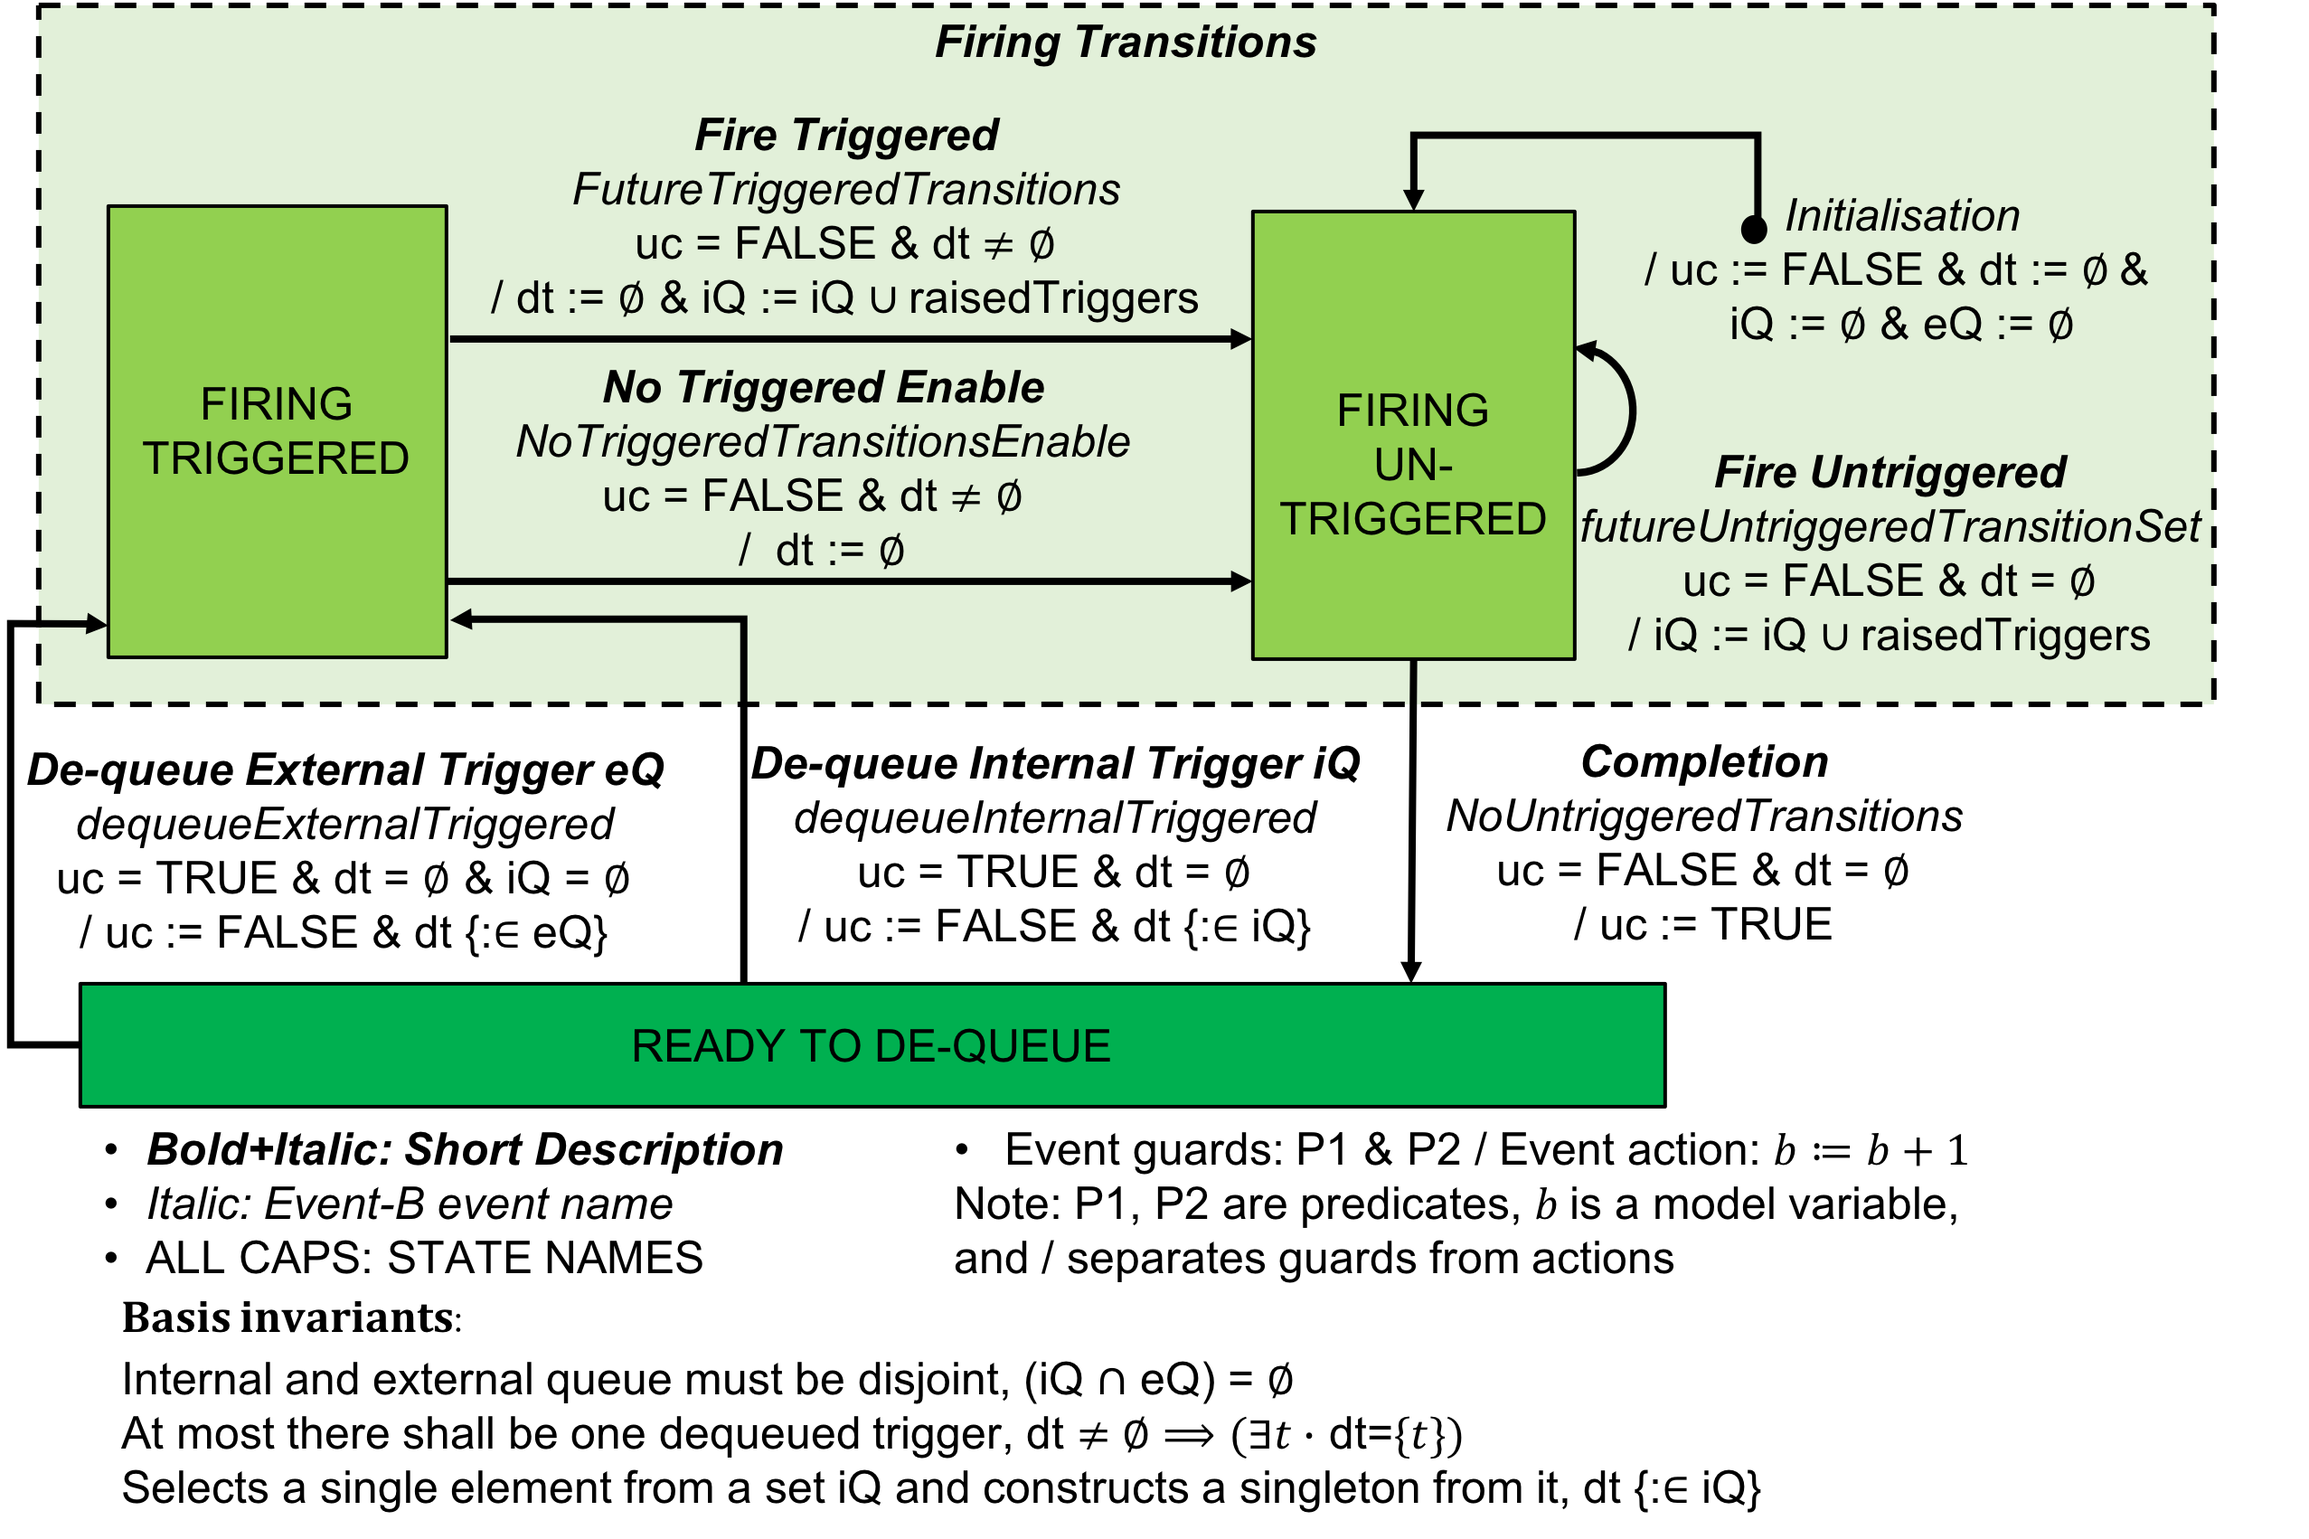
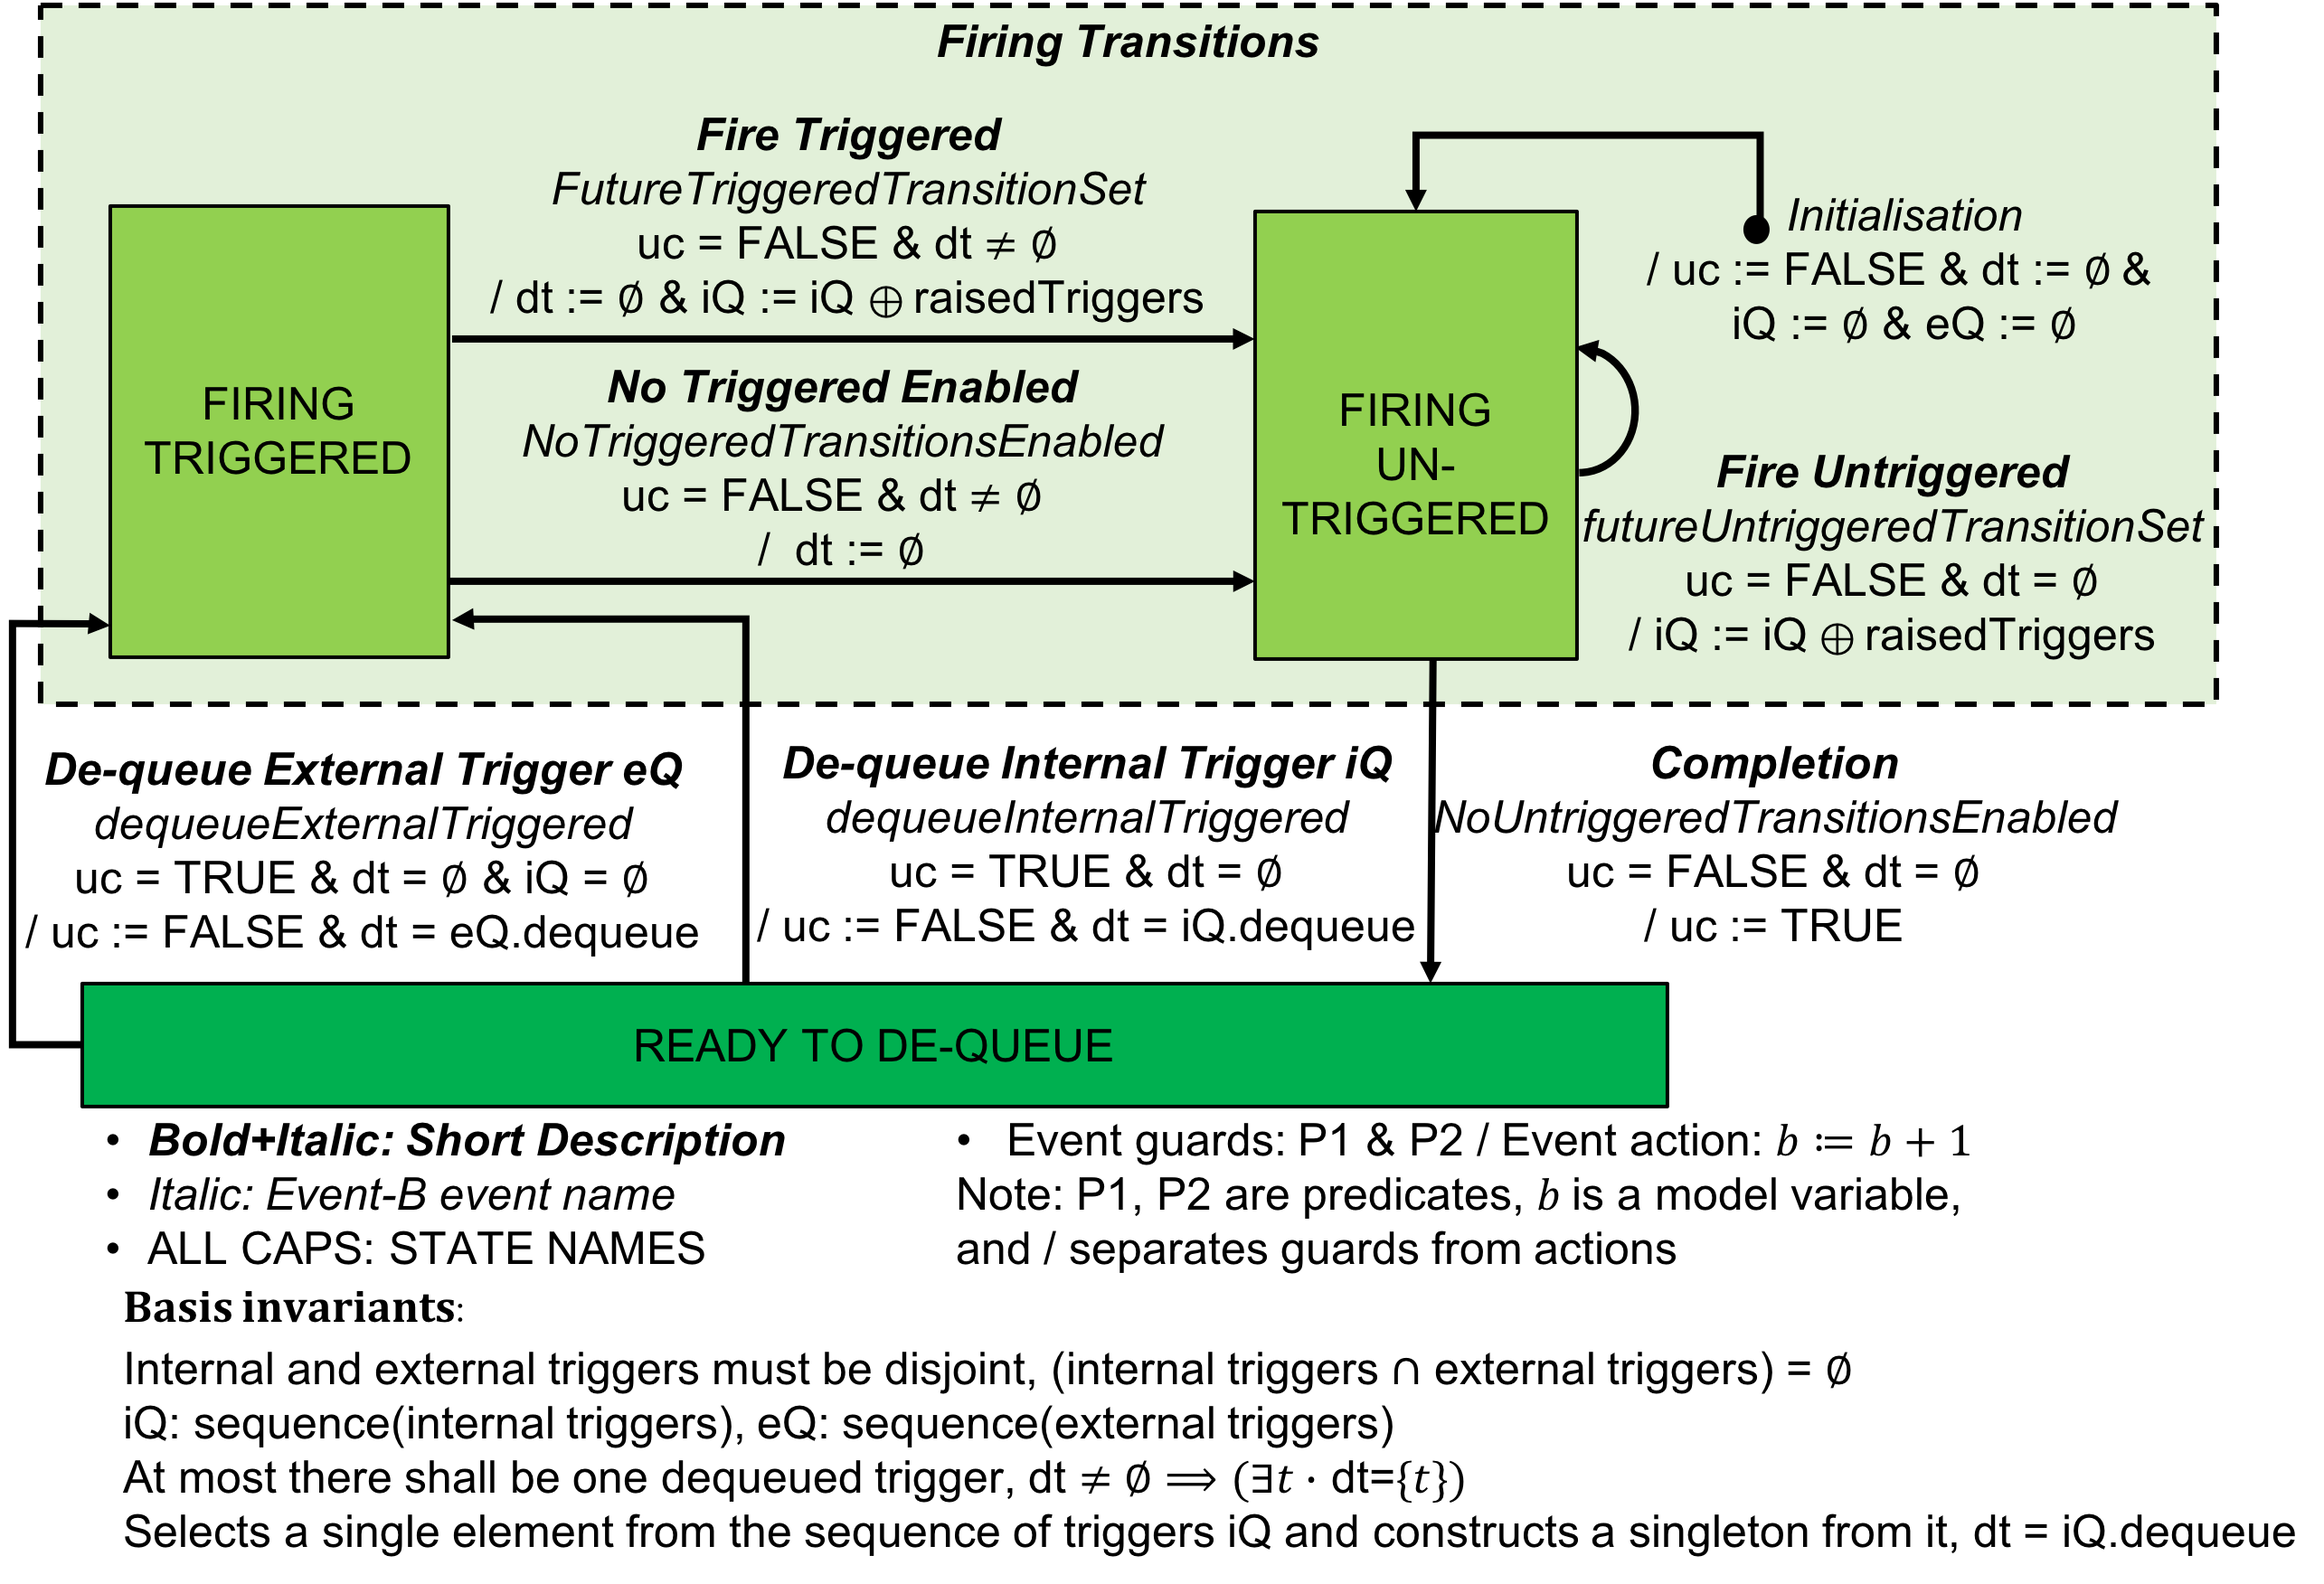
Updates to R@C basis diagram and the text to match events names

diff --git a/manuscripts/ISSE/source/sections/runToCompletionBasis.tex b/manuscripts/ISSE/source/sections/runToCompletionBasis.tex
@@ -95,7 +95,7 @@ This will subsequently enable completion and reset the |uc| flag to |TRUE|.
 The abstract event |futureRaiseExternalTrigger| represents the raising  of an external trigger (not shown in the diagram).    
 After completion, a queued trigger can be prepared for consumption by moving it to the dequeued trigger, |dt|.
 Internal triggers have a higher priority, since the external trigger queue is only dequeued if the |iQ| is empty (see |dequeueExternalTriggered| and |dequeueInternalTriggered| in Figure~\ref{fig:basis}).
-The abstract event |futureTriggeredTransitions| represents a combination of parallel transitions that are simultaneously triggered by the dequeued trigger, |dt|.
+The abstract event |futureTriggeredTransitionSet| represents a combination of parallel transitions that are simultaneously triggered by the dequeued trigger, |dt|.
 The actions of these transitions may also raise triggers of their own in the internal trigger queue |iQ|.
 
 
